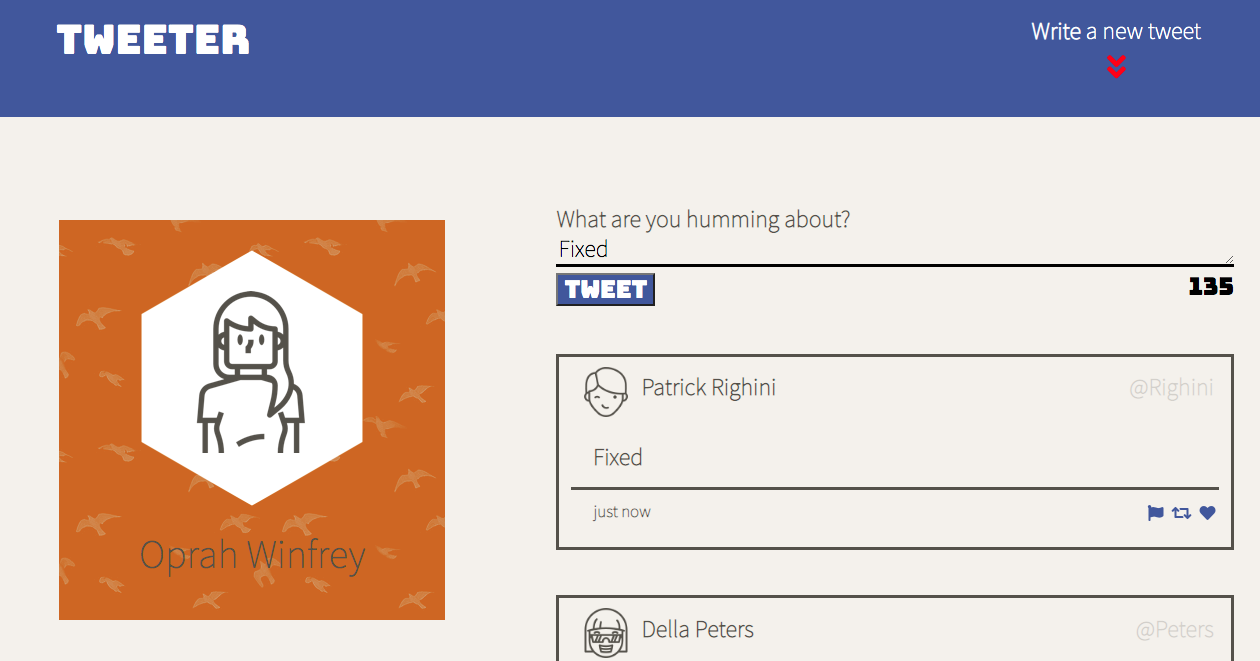
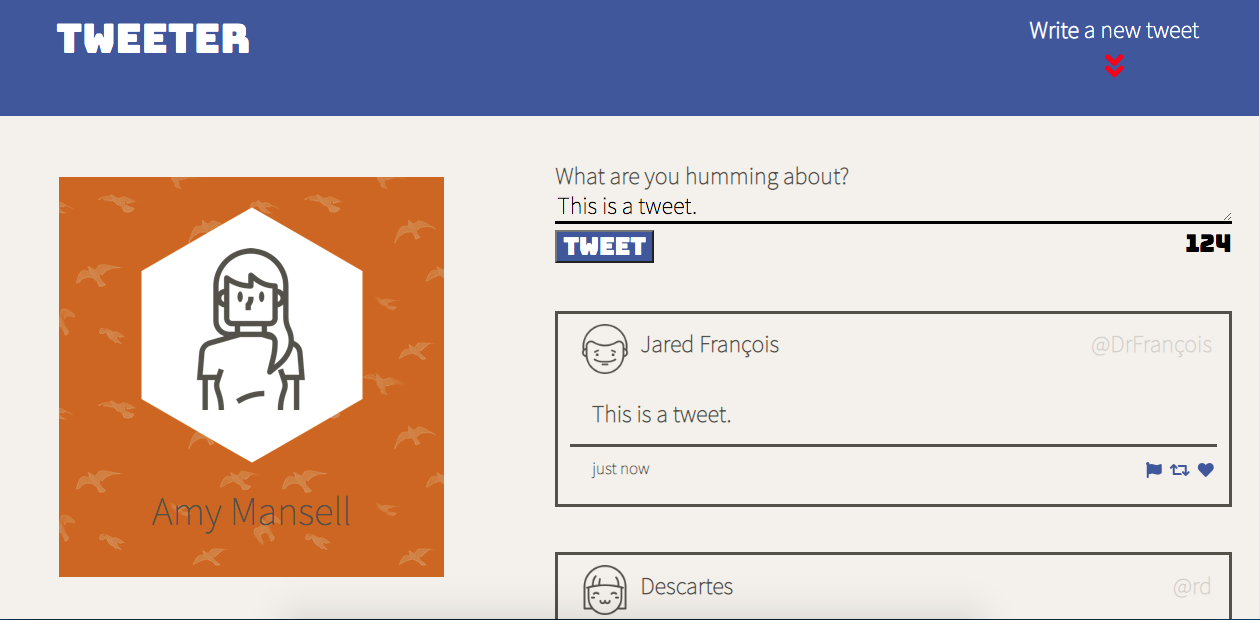
docs: Update to project image for README.md

diff --git a/public/index.html b/public/index.html
@@ -52,7 +52,7 @@
         <img src="/images/profile-hex.png" />
       </div>
       <div class="class2">
-        <p class="user-name"><bold>Oprah</bold> Winfrey</p>
+        <p class="user-name"><bold>Amy</bold> Mansell</p>
       </div>
     </header>
 <div>
